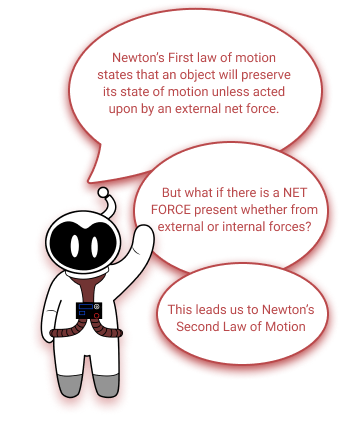
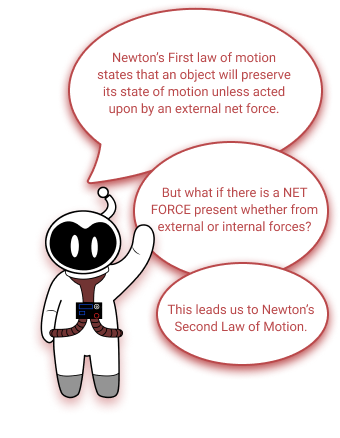
punctuations and other margins fixed

Changed region(s): [[0.5, 0.7123, 0.9118, 0.7717]]

diff --git a/lib/student/games/level_4/Level4QuestionsAndAnswers.dart b/lib/student/games/level_4/Level4QuestionsAndAnswers.dart
@@ -10,47 +10,47 @@ var questions = [
   "What is the ACTION force?",
   "What is the REACTION force?",
   "What is the REACTION force?",
-  "Which of the following \nexperiences the law of interaction? \nChoose 3",
+  "Which of the following \nexperiences the law of interaction? \nChoose 3.",
 ];
 var choices = [
   [
-    "Boy pushing down on the diving board",
-    "Diving board pushing up on the man"
+    "Boy pushing down on the diving board.",
+    "Diving board pushing up on the man."
   ],
-  ["Foot pushing down on the ground", "Ground pushing up on the foot"],
-  ["Air pushing up on the bird's wing", "Bird's wing pushing down on the air."],
-  ["Gravity pulling down on the book", "Table pushing up on the book"],
+  ["Foot pushing down on the ground.", "Ground pushing up on the foot."],
+  ["Air pushing up on the bird's wing.", "Bird's wing pushing down on the air."],
+  ["Gravity pulling down on the book.", "Table pushing up on the book."],
   ["Earth pulling on the moon.", "Moon pulling on the earth."],
-  ["Rocket pushing down on the gas", "Gas explosion pushing up on the rocket"],
-  ["Sand pushing up on the foot", "Foot pushing down on the sand"],
+  ["Rocket pushing down on the gas.", "Gas explosion pushing up on the rocket."],
+  ["Sand pushing up on the foot.", "Foot pushing down on the sand."],
   [
-    "The water pushes back on the swimmer",
-    "The swimmer pushes against the water"
+    "The water pushes back on the swimmer.",
+    "The swimmer pushes against the water."
   ],
   [
-    "A person pushes against a wall",
-    "The wall exerts an equal and opposite reaction force against the person"
+    "A person pushes against a wall.",
+    "The wall exerts an equal and opposite reaction force against the person."
   ],
   [
-    "A speeding car stopping on a red light",
-    "A person tries to push a stuck car",
-    "An orange falling a tree",
-    "The clothline with hung clothes",
-    "Rockets in moving in constant motion in space",
-    "Jumping from a raft into the water"
+    "A speeding car stopping on a red light.",
+    "A person tries to push a stuck car.",
+    "An orange falling a tree.",
+    "The clothline with hung clothes.",
+    "Rockets in moving in constant motion in space.",
+    "Jumping from a raft into the water."
   ],
 ];
 
 var trivia = [
-  'You\'re answer is correct! Boy pushing down on the diving board',
-  'You\'re answer is correct! Ground pushing up on the foot',
-  'You\'re answer is correct! Bird\'s wings pushing down on the air',
-  'You\'re answer is correct! Gravity pulling down on the book',
-  'You\'re answer is correct! Earth pulling on the moon',
-  'You\'re answer is correct! Rocket pushing down on the gas explosion',
-  'You\'re answer is correct! Foot pushing down on the sand',
-  'You\'re answer is correct! The water pushes back on the swimmer',
-  'You\'re answer is correct! The wall exerts an equal and opposite force against',
+  'You\'re answer is correct! Boy pushing down on the diving board.',
+  'You\'re answer is correct! Ground pushing up on the foot.',
+  'You\'re answer is correct! Bird\'s wings pushing down on the air.',
+  'You\'re answer is correct! Gravity pulling down on the book.',
+  'You\'re answer is correct! Earth pulling on the moon.',
+  'You\'re answer is correct! Rocket pushing down on the gas explosion.',
+  'You\'re answer is correct! Foot pushing down on the sand.',
+  'You\'re answer is correct! The water pushes back on the swimmer.',
+  'You\'re answer is correct! The wall exerts an equal and opposite force against.',
   'You\'re answer is correct!'
 ];
 var answers = [

diff --git a/lib/student/games/level_3/Level3QuestionsAndAnswers.dart b/lib/student/games/level_3/Level3QuestionsAndAnswers.dart
@@ -7,9 +7,9 @@ var questions = [
   "The acceleration of an object \nexperiences directly proportional \nto applied force.",
   "What is the relationship of \nthe objects acceleration \nto its mass?",
   "Two bottles are drop at the \nsame time. Which bottle \nwill reach the end \nof the ramp first?",
-  "What is a NET FORCE",
-  "Using the formula F=ma, \nwhat is the blocks",
-  "Which of the following experience \nthe Law of Acceleration? \nChoose 3",
+  "What is a NET FORCE?",
+  "Using the formula F=ma, \nwhat is the blocks?",
+  "Which of the following experience \nthe Law of Acceleration? \nChoose 3.",
 ];
 var choices = [
   ["Newton", "Joules"],
@@ -20,18 +20,18 @@ var choices = [
     "The objects acceleration is directly proportional to its mass.",
     "The objects acceleration is inversely proportional to its mass."
   ],
-  ["Empty juice bottle", "Full juice bottle"],
+  ["Empty juice bottle.", "Full juice bottle."],
   [
-    "The sum of all forces acting on a body",
-    "The difference of forces acting on a body"
+    "The sum of all forces acting on a body.",
+    "The difference of forces acting on a body."
   ],
   ["5 m/s2", "10 m/s2"],
   [
-    "Two people are pushing on an object on opposite sides, put the object doesn\'t move or change at all.",
+    "Two people are pushing on an object on opposite sides, put the object doesn't move or change at all.",
     "Two teams are playing tug-of-war. Team A wins.",
     "You use the same force to push a truck and a car, the car accelerates than the truck.",
     "Two balls rolling down a cliff reach the ground at the same time.",
-    "Two people are walking and among the two people, if one is heavier than the other",
+    "Two people are walking and among the two people, if one is heavier than the other.",
     "To boys pushing at a brick wall."
   ],
 ];
@@ -61,15 +61,15 @@ var images = [
 ];
 
 var trivia = [
-  "NEWTON is the SI unit of force \nwhere 1N = (1kg) (1m/s2)",
+  "NEWTON is the SI unit of force \nwhere 1N = (1kg) (1m/s2).",
   "Acceleration is the rate of change \nin the velocity of an object.",
   "Heavier objects require more force \nto accelerate than lighter objects.",
-  "If the net force were doubled, \nthe acceleration of the object\n would be twice as large",
+  "If the net force were doubled, \nthe acceleration of the object\n would be twice as large.",
   "The acceleration an object experiences \nis inversely proportional to its mass.",
   "The full juice bottle reached the ramp \nfirst because it has greater mass than \nthe empty juice bottle.",
   "The sum of all forces acting on a body.",
-  "Using the formula F=ma, \nwhat is the blocks",
-  "Which of the following experience \nthe Law of Acceleration? \nChoose 3"
+  "Using the formula F=ma, \nwhat is the blocks?",
+  "Which of the following experience \nthe Law of Acceleration? \nChoose 3."
 ];
 
 var triviaImage = [

diff --git a/lib/student/games/level_4/questions.dart b/lib/student/games/level_4/questions.dart
@@ -263,7 +263,7 @@ class _QuestionsLevel4State extends State<QuestionsLevel4> {
                     margin: EdgeInsets.only(
                         top: SizeConfig.safeBlockVertical! * 2,
                         left: SizeConfig.safeBlockHorizontal! * 5),
-                    height: SizeConfig.safeBlockVertical! * 7,
+                    height: SizeConfig.safeBlockVertical! * 9,
                     decoration: BoxDecoration(
                       image: DecorationImage(
                         alignment: Alignment.topLeft,
@@ -273,8 +273,8 @@ class _QuestionsLevel4State extends State<QuestionsLevel4> {
                     ),
                   ),
                   Container(
-                    alignment: Alignment(0.0, -1.0),
-                    padding: EdgeInsets.only(top: 1.h, left: 15.w),
+                         alignment: Alignment(0.0, -1.0),
+                    padding: EdgeInsets.only(top: 2.5.h, left: 12.w),
                     child: Text(
                       'Level 4\nNewton\'s Third Law of Motion: \nLaw of Interaction',
                       textAlign: TextAlign.left,
@@ -426,7 +426,7 @@ class _QuestionsLevel4State extends State<QuestionsLevel4> {
                                 Container(
                                     alignment: Alignment(0.0, -1.0),
                                     padding: EdgeInsets.only(
-                                        top: 8.h, left: 30.w, right: 10.w),
+                                        top: 10.h, left: 32.w, right: 10.w),
                                     child: (!triviaFlag)
                                         ? AutoSizeText(
                                             //getting the questions based from what current number is
@@ -444,10 +444,10 @@ class _QuestionsLevel4State extends State<QuestionsLevel4> {
                                             textAlign: TextAlign.center,
                                             style: TextStyle(
                                               fontWeight: FontWeight.bold,
-                                              fontSize: 6.sp,
+                                              fontSize: 11.sp,
                                               color: Color(0xFFBA494B),
                                             ),
-                                            maxLines: 9,
+                                            maxLines: 3,
                                           )),
                               ],
                             )),

diff --git a/lib/student/games/level_3/questions.dart b/lib/student/games/level_3/questions.dart
@@ -272,7 +272,7 @@ class _QuestionsLevel3State extends State<QuestionsLevel3> {
                   ),
                   Container(
                     alignment: Alignment(0.0, -1.0),
-                    padding: EdgeInsets.only(top: 3.5.h, left: 15.w),
+                    padding: EdgeInsets.only(top: 2.5.h, left: 12.w),
                     child: Text(
                       'Level 3\nNewton\'s Second Law of Motion: \nLaw of Acceleration',
                       textAlign: TextAlign.left,
@@ -459,7 +459,7 @@ class _QuestionsLevel3State extends State<QuestionsLevel3> {
                                             textAlign: TextAlign.center,
                                             style: TextStyle(
                                               fontWeight: FontWeight.bold,
-                                              fontSize: 6.sp,
+                                              fontSize: 7.sp,
                                               color: Color(0xFFBA494B),
                                             ),
                                             maxLines: 9,
@@ -621,7 +621,7 @@ class _QuestionsLevel3State extends State<QuestionsLevel3> {
                                   choices[getCurrentNumber()][i],
                                   style: TextStyle(
                                     fontSize:
-                                        (getCurrentNumber() == 8) ? 8.sp : 9.sp,
+                                        (getCurrentNumber() == 8) ? 9.sp : 10.sp,
                                     // fontWeight: FontWeight.w700,
                                     // fontWeight: FontWeight.w700,
                                     color: (answerResult != null)

diff --git a/lib/student/games/level_3/level_3b.dart b/lib/student/games/level_3/level_3b.dart
@@ -221,9 +221,10 @@ class _Level3State extends State<Level3b> {
                     ),
                   ),
                   Container(
-                    margin: EdgeInsets.only(
-                        top: size.height * 0.03, right: size.width * 0.77),
-                    height: size.height * .08,
+                   margin: EdgeInsets.only(
+                        top: SizeConfig.safeBlockVertical! * 2,
+                        left: SizeConfig.safeBlockHorizontal! * 5),
+                    height: SizeConfig.safeBlockVertical! * 9,
                     decoration: BoxDecoration(
                       image: DecorationImage(
                         fit: BoxFit.contain,
@@ -233,7 +234,7 @@ class _Level3State extends State<Level3b> {
                   ),
                   Container(
                     alignment: Alignment(0.0, -1.0),
-                    padding: EdgeInsets.only(top: 2.5.h, left: 15.w),
+                    padding: EdgeInsets.only(top: 2.5.h, left: 12.w),
                     child: Text(
                       'Level 3\nNewton\'s Second Law of Motion: \nLaw of Acceleration',
                       textAlign: TextAlign.left,

diff --git a/lib/student/games/level_2/questions.dart b/lib/student/games/level_2/questions.dart
@@ -433,10 +433,10 @@ class _QuestionsLevel2State extends State<QuestionsLevel2> {
                                             textAlign: TextAlign.center,
                                             style: TextStyle(
                                               fontWeight: FontWeight.bold,
-                                              fontSize: 11.sp,
+                                              fontSize: 10.sp,
                                               color: Color(0xFFBA494B),
                                             ),
-                                            maxLines: 3,
+                                            maxLines: 5,
                                           )
                                         : AutoSizeText(
                                             trivia[getCurrentNumber()],

diff --git a/lib/student/games/level_4/level_4a.dart b/lib/student/games/level_4/level_4a.dart
@@ -234,8 +234,8 @@ class _Level4State extends State<Level4a> {
                     ),
                   ),
                   Container(
-                    alignment: Alignment(0.0, -1.0),
-                    padding: EdgeInsets.only(top: 1.h, left: 15.w),
+                          alignment: Alignment(0.0, -1.0),
+                    padding: EdgeInsets.only(top: 2.5.h, left: 12.w),
                     child: Text(
                       'Level 4\nNewton\'s Third Law of Motion: \nLaw of Interaction',
                       textAlign: TextAlign.left,

diff --git a/lib/student/games/level_4/level_4c.dart b/lib/student/games/level_4/level_4c.dart
@@ -236,8 +236,8 @@ class _Level4State extends State<Level4c> {
                     ),
                   ),
                   Container(
-                    alignment: Alignment(0.0, -1.0),
-                    padding: EdgeInsets.only(top: 1.h, left: 15.w),
+                          alignment: Alignment(0.0, -1.0),
+                    padding: EdgeInsets.only(top: 2.5.h, left: 12.w),
                     child: Text(
                       'Level 4\nNewton\'s Third Law of Motion: \nLaw of Interaction',
                       textAlign: TextAlign.left,

diff --git a/lib/student/games/level_4/level_4b.dart b/lib/student/games/level_4/level_4b.dart
@@ -235,8 +235,8 @@ class _Level4State extends State<Level4b> {
                     ),
                   ),
                   Container(
-                    alignment: Alignment(0.0, -1.0),
-                    padding: EdgeInsets.only(top: 1.h, left: 15.w),
+                         alignment: Alignment(0.0, -1.0),
+                    padding: EdgeInsets.only(top: 2.5.h, left: 12.w),
                     child: Text(
                       'Level 4\nNewton\'s Third Law of Motion: \nLaw of Interaction',
                       textAlign: TextAlign.left,

diff --git a/lib/student/games/level_4/level_4d.dart b/lib/student/games/level_4/level_4d.dart
@@ -240,8 +240,8 @@ class _Level4State extends State<Level4d> {
                     ),
                   ),
                   Container(
-                    alignment: Alignment(0.0, -1.0),
-                    padding: EdgeInsets.only(top: 1.h, left: 15.w),
+                         alignment: Alignment(0.0, -1.0),
+                    padding: EdgeInsets.only(top: 2.5.h, left: 12.w),
                     child: Text(
                       'Level 4\nNewton\'s Third Law of Motion: \nLaw of Interaction',
                       textAlign: TextAlign.left,

diff --git a/lib/student/games/level_5/questions.dart b/lib/student/games/level_5/questions.dart
@@ -423,7 +423,7 @@ class _QuestionsLevel5State extends State<QuestionsLevel5> {
                                       textAlign: TextAlign.center,
                                       style: TextStyle(
                                         fontWeight: FontWeight.bold,
-                                        fontSize: 9.sp,
+                                        fontSize: 12.sp,
                                         color: Color(0xFFBA494B),
                                       ),
                                       maxLines: 3,

diff --git a/lib/student/games/level_5/Level5QuestionsAndAnswers.dart b/lib/student/games/level_5/Level5QuestionsAndAnswers.dart
@@ -1,8 +1,8 @@
 // ignore_for_file: file_names
 //questions, choices and answers for level 1
 var questions = [
-  "Oh no! Newt needs to go home.\n Help him launch his backpack rocket! ASAP",
-  "Newt has a higher mass\nThe rocket needs to produce...?h",
+  "Oh no! Newt needs to go home.\n Help him launch his backpack rocket! ASAP!",
+  "Newt has a higher mass\nThe rocket needs to produce...?",
   "Newt need to accelerate faster, \nyou have to...?",
   "Newt house is near. \nYet he is travelling so fast!",
   "YAY! \nLANDED \nSUCCESSFULLY",
